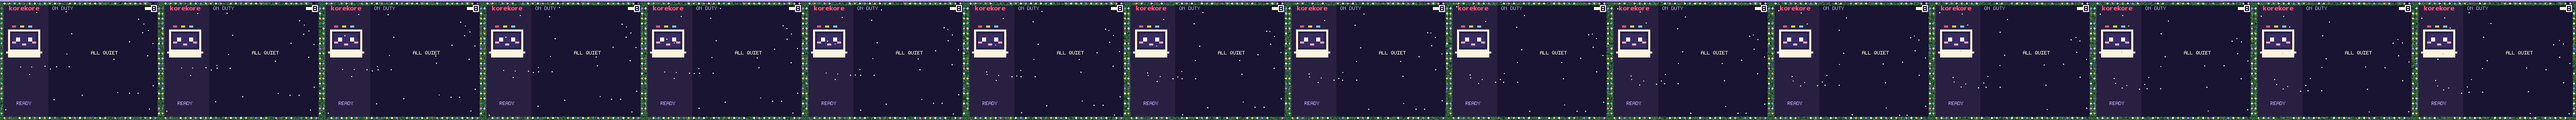
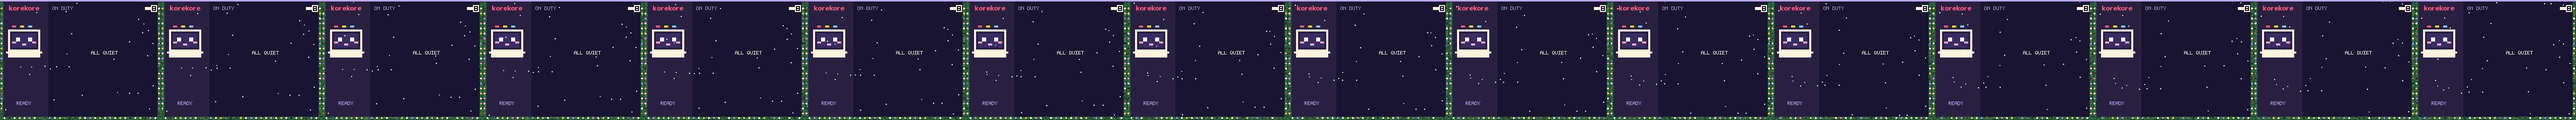
Christmas decoration: no garland along the top edge
Along the top, the garland sat right against the state colour and read
as part of it. It now runs down both sides from just under the state
colour and along the bottom, and has no bulbs along the top.

Changed region(s): [[0.0, 0.0, 1.0, 0.0583], [0.0, 0.9625, 1.0, 0.9917]]

diff --git a/firmware-rs/core/src/decoration.rs b/firmware-rs/core/src/decoration.rs
@@ -1,7 +1,8 @@
 //! Decorations (ADR-0022): a seasonal layer drawn over whichever box screens the box uses, after the screen and
 //! before the dimming, the menu and the tap outline. Only things that don't depend on the layout, so one drawing
 //! works on every set of screens. Each one is named for its holiday: Thanksgiving is falling leaves with an acorn
-//! here and there, and Christmas is lights on a pine garland around the edge with snow falling inside it.
+//! here and there, and Christmas is lights on a pine garland down the sides and along the bottom with snow
+//! falling inside it. The garland leaves the top edge alone, where it would sit against the state colour.
 //!
 //! Every flake, leaf and bulb is a function of time alone, so a frame drawn at any moment is right and the
 //! screens' own animation pace doesn't matter. Nothing is drawn in the top rows, where both sets show the state
@@ -157,11 +158,12 @@ const WIRE_BOTTOM: i32 = HEIGHT - 1 - WIRE_INSET;
 const WIRE_LEFT: i32 = WIRE_INSET;
 const WIRE_RIGHT: i32 = WIDTH - 1 - WIRE_INSET;
 
-/// The centres of the bulbs: along the top, down the right, along the bottom and up the left.
+/// The centres of the bulbs: down the right, along the bottom and up the left. None along the top, where they would
+/// sit against the state colour.
 fn bulbs() -> impl Iterator<Item = (i32, i32)> {
     let across = (0..).map(|step| WIRE_LEFT + 6 + step * BULB_SPACING).take_while(|x| *x <= WIRE_RIGHT - 6);
     let down = (1..).map(|step| WIRE_TOP + step * BULB_SPACING).take_while(|y| *y <= WIRE_BOTTOM - 6);
-    across.clone().map(|x| (x, WIRE_TOP)).chain(down.clone().map(|y| (WIRE_RIGHT, y))).chain(across.map(|x| (x, WIRE_BOTTOM))).chain(down.map(|y| (WIRE_LEFT, y)))
+    down.clone().map(|y| (WIRE_RIGHT, y)).chain(across.map(|x| (x, WIRE_BOTTOM))).chain(down.map(|y| (WIRE_LEFT, y)))
 }
 
 /// One cross-section of the garland, `GARLAND` pixels from `(x, y)` one step of `(dx, dy)` at a time, from the edge
@@ -184,12 +186,12 @@ fn garland_slice(canvas: &mut Canvas, x: i32, y: i32, dx: i32, dy: i32, along: i
     }
 }
 
+/// Down both sides from just under the state colour, and along the bottom.
 fn garland(canvas: &mut Canvas) {
     for x in 0..WIDTH {
-        garland_slice(canvas, x, TOP, 0, 1, x);
         garland_slice(canvas, x, HEIGHT - 1, 0, -1, x + WIDTH);
     }
-    for y in TOP + GARLAND..HEIGHT - GARLAND {
+    for y in TOP..HEIGHT - GARLAND {
         garland_slice(canvas, 0, y, 1, 0, y + 2 * WIDTH);
         garland_slice(canvas, WIDTH - 1, y, -1, 0, y + 3 * WIDTH);
     }

diff --git a/docs/adr/0022-decorations-are-one-overlay-for-every-set-of-box-screens.md b/docs/adr/0022-decorations-are-one-overlay-for-every-set-of-box-screens.md
@@ -27,4 +27,4 @@ So a decoration is a third thing beside the Character and the box screens, and i
 - A moving decoration redraws the frame every 150 ms between the screens' own frames, without speeding up the buddy's animation. The rate is checked on the box. It holds still while the menu is up, while the box needs input, and while the screen is dimmed for the night.
 - The Mac app and the Linux app both get a decoration strip on the Character page, right under the volume so a long list of Characters doesn't push it out of sight: one preview, playing frames the firmware itself drew (`tools/decoration-previews.sh` into `decorations/`, so the apps never redraw a decoration of their own), and a button for each decoration. It is off while the box is away or runs firmware that doesn't report a decoration, with zh-Hans strings on both sides. It was first on the Device page, beside the box screens; on 2026-11-05 it moved, since people look for a holiday look where they pick the Character.
 - The first decorations are Thanksgiving (falling autumn leaves with an acorn here and there, for 2026-11-26) and Christmas (lights on the pine garland, with snow falling inside it). Both ship in one firmware release and one App release about a week before Thanksgiving, and that App release also carries Tom and Pip.
-- On 2026-11-06, before any of it shipped, the three decorations Leaves, Snow and Lights became these two, one for each holiday: people pick a holiday, not an effect, and lights alone were for December only. The Christmas one draws the garland first, so a flake falls behind it. Thanksgiving got acorns rather than pumpkins: acorns fall, and a pumpkin's orange is too near the working orange. Snow on its own for the rest of the winter is gone for now. Holidays differ by country: Thanksgiving means little outside the US and Canada, so other holidays, such as Lunar New Year, come as decorations of their own. The settings record keeps codes 1 and 2 for the two; 3, which only test boxes stored, reads as off.
+- On 2026-11-06, before any of it shipped, the three decorations Leaves, Snow and Lights became these two, one for each holiday: people pick a holiday, not an effect, and lights alone were for December only. The Christmas one draws the garland first, so a flake falls behind it, and the garland no longer runs along the top edge: there it sat right against the state colour and read as part of it. Thanksgiving got acorns rather than pumpkins: acorns fall, and a pumpkin's orange is too near the working orange. Snow on its own for the rest of the winter is gone for now. Holidays differ by country: Thanksgiving means little outside the US and Canada, so other holidays, such as Lunar New Year, come as decorations of their own. The settings record keeps codes 1 and 2 for the two; 3, which only test boxes stored, reads as off.

diff --git a/CONTEXT.md b/CONTEXT.md
@@ -105,7 +105,7 @@ The set of screens the box draws everything with: the robot screens (the default
 _Avoid_: theme, skin, style on its own (界面风格 is fine in talk, but the UI says box screens)
 
 **Decoration (装饰)**:
-A seasonal layer the box draws over whichever box screens it uses, one for each holiday: falling leaves and acorns for Thanksgiving, lights on a pine garland around the edge of the screen with snow falling inside it for Christmas. It uses only things that don't depend on the layout, so one decoration is designed once and works on every set of screens. It is separate from the Character: a decoration doesn't come with one, and a Character doesn't bring one. It never hides or changes what the screen means (ADR-0022).
+A seasonal layer the box draws over whichever box screens it uses, one for each holiday: falling leaves and acorns for Thanksgiving, lights on a pine garland down the sides and along the bottom of the screen with snow falling inside it for Christmas. It uses only things that don't depend on the layout, so one decoration is designed once and works on every set of screens. It is separate from the Character: a decoration doesn't come with one, and a Character doesn't bring one. It never hides or changes what the screen means (ADR-0022).
 _Avoid_: theme, holiday skin, background (it is drawn over the screens, not under them)
 
 **Character pack (角色包)**:
